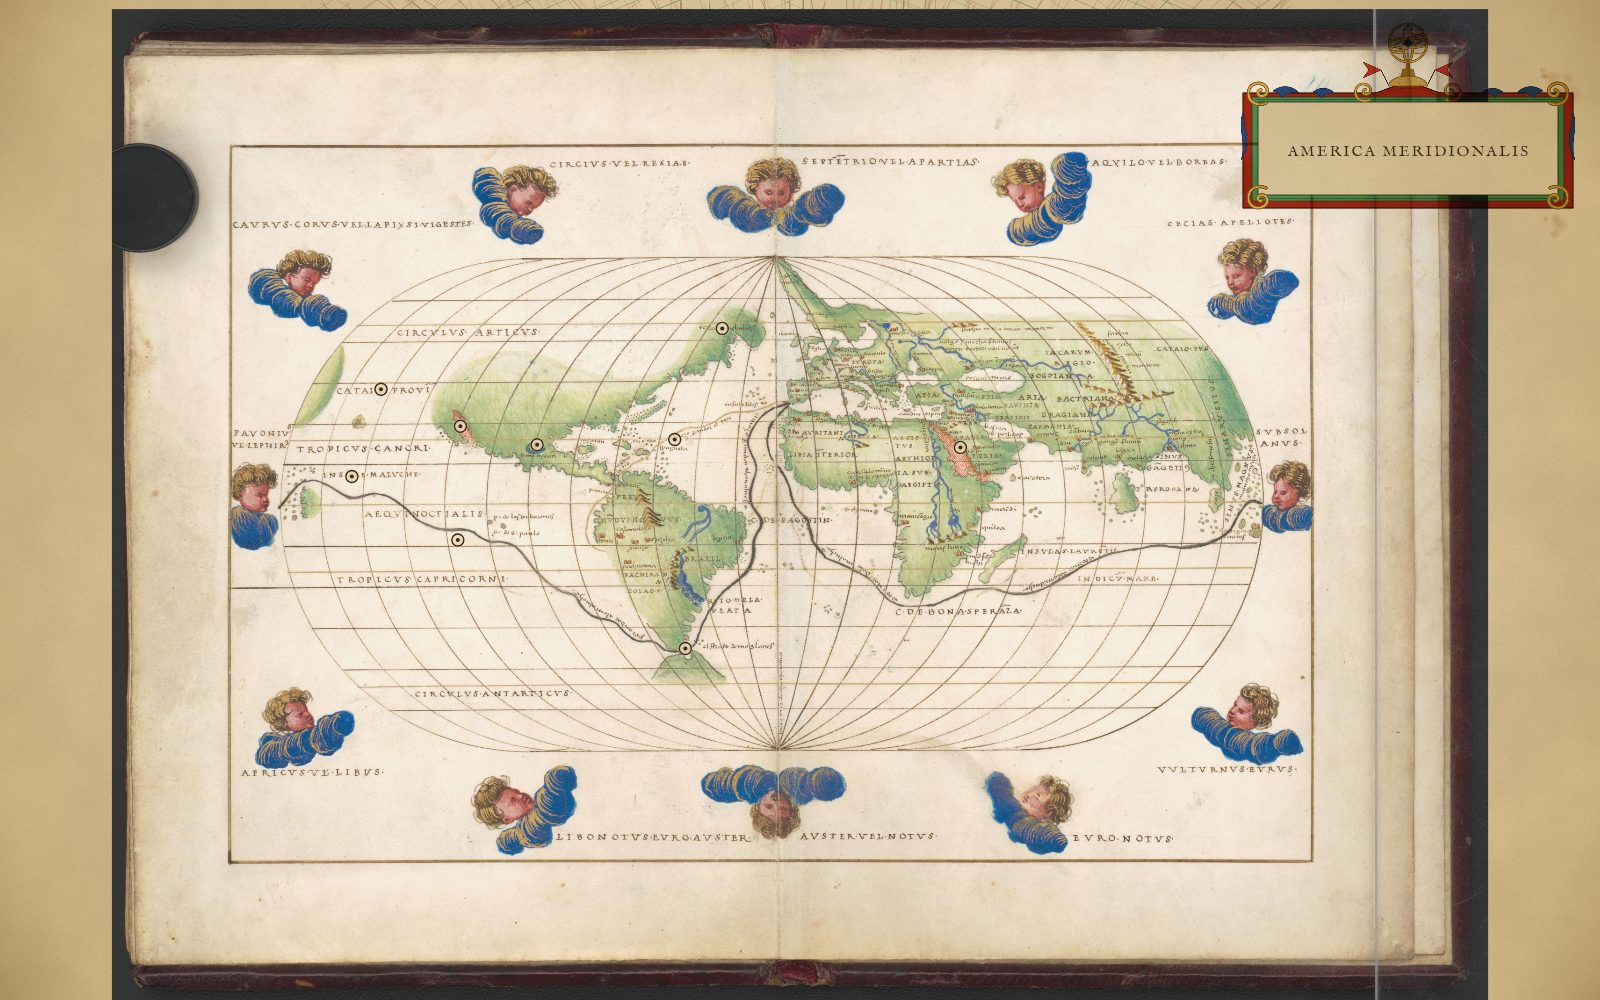
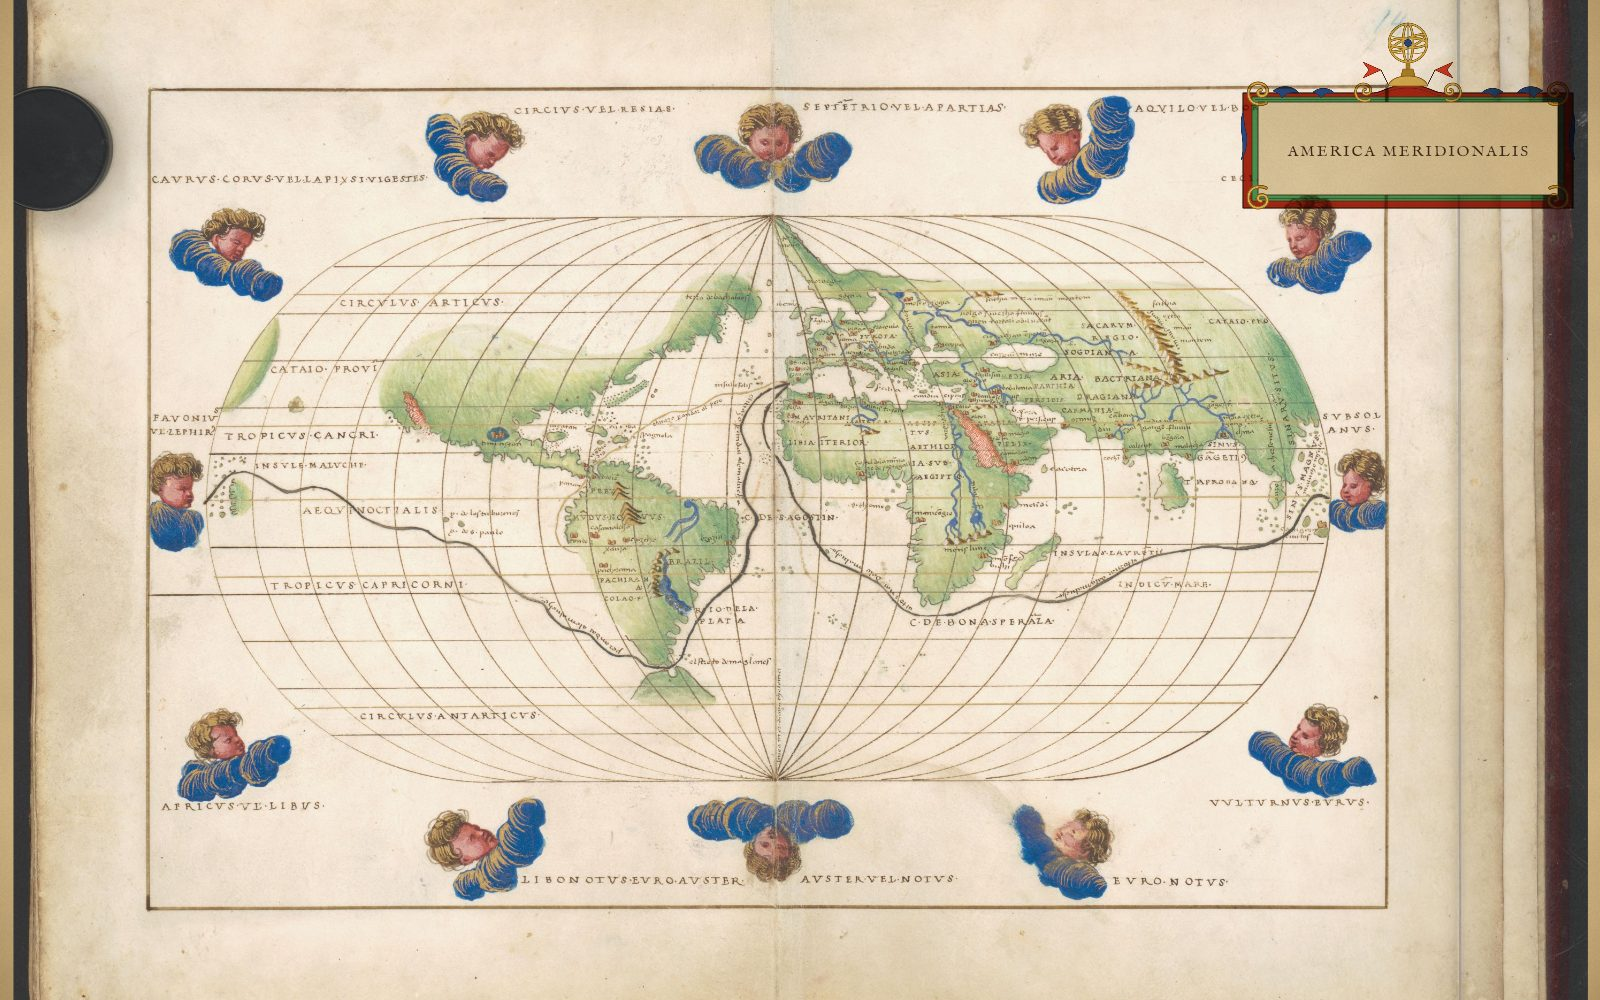
fix(overlay): notes drawn nowhere; a click on the sheet opens them (#270)
The ringed dots are gone. Over a noted figure the cursor turns to a
pointer, and a tap on the sheet that does not move it opens the note:
before, every press on the sheet began a drag and no tap reached the
tiles, and dropping the sheet re-rendered, which hid any tile.

diff --git a/public/page.js b/public/page.js
@@ -975,6 +975,7 @@ function sheetHit([x, y]) {
   if (near(geo.corners[2])) return { kind: 'size', ...geo };
   return onSheet(geo.o, geo.proj, geo.o.sheet, x, y) ? { kind: 'move', ...geo } : null;
 }
+let sheetTap = null; // where a press on the sheet began, until it moves far enough to be a drag: a tap there opens a note
 let held = null; // { kind, o, proj, start, sheet (as taken), centre } while the sheet is held
 let sheetFrameId = 0;
 function holdSheet(hit, p) {
@@ -1068,7 +1069,7 @@ canvas.addEventListener('pointerdown', (e) => {
   cancelAnimationFrame(flight); flightTo = null; // a touch takes over from a flight
   if (!pointers.size && e.isPrimary && !held) {
     const p = toCanvas(e.clientX, e.clientY), hit = sheetHit(p);
-    if (hit) { holdSheet(hit, p); canvas.setPointerCapture(e.pointerId); canvas.style.cursor = 'grabbing'; return; }
+    if (hit) { hideTile(); holdSheet(hit, p); sheetTap = p; canvas.setPointerCapture(e.pointerId); canvas.style.cursor = 'grabbing'; return; }
   }
   if (!pointers.size && e.isPrimary && (carried = cardAt(toCanvas(e.clientX, e.clientY)))) {
     carried.corner = style[carried.key];
@@ -1083,9 +1084,9 @@ canvas.addEventListener('pointerdown', (e) => {
   clearTimeout(settle);
 });
 canvas.addEventListener('pointermove', (e) => {
-  if (held) { dragSheet(toCanvas(e.clientX, e.clientY)); return; }
+  if (held) { const p = toCanvas(e.clientX, e.clientY); if (sheetTap && Math.hypot(p[0] - sheetTap[0], p[1] - sheetTap[1]) > cssPx(TAP_SLOP)) sheetTap = null; if (!sheetTap) dragSheet(p); return; }
   if (carried) { carried.corner = cornerAt(toCanvas(e.clientX, e.clientY)); showSnap(carried.corner, carried.w, carried.h); return; }
-  if (!pointers.size) { const p = toCanvas(e.clientX, e.clientY); canvas.style.cursor = cardAt(p) ? 'grab' : { move: 'grab', turn: 'crosshair', size: 'nwse-resize' }[sheetHit(p)?.kind] ?? ''; return; }
+  if (!pointers.size) { const p = toCanvas(e.clientX, e.clientY); canvas.style.cursor = cardAt(p) ? 'grab' : markAt(p) ? 'pointer' : { move: 'grab', turn: 'crosshair', size: 'nwse-resize' }[sheetHit(p)?.kind] ?? ''; return; }
   if (!pointers.has(e.pointerId)) return;
   const p = toCanvas(e.clientX, e.clientY);
   if (tap && Math.hypot(p[0] - tap[0], p[1] - tap[1]) > cssPx(TAP_SLOP)) tap = null;
@@ -1101,7 +1102,7 @@ canvas.addEventListener('pointermove', (e) => {
   }
 });
 const lift = (e) => {
-  if (held) { canvas.style.cursor = ''; dropSheet(); return; }
+  if (held) { const at = sheetTap; sheetTap = null; canvas.style.cursor = ''; if (at) { held = null; if (e.type === 'pointerup') showTileAt(at); } else dropSheet(); return; } // a tap moved nothing: no render, which would hide the tile
   if (carried) { // dropped: the corner is kept, the sheet placed again
     const { key, corner } = carried;
     carried = null; snap.style.display = 'none';
@@ -1170,11 +1171,16 @@ function sightTiles() {
     .filter(([name]) => SIGHT_TILES[name]).map(([name, v]) => { const { at, ...tile } = SIGHT_TILES[name]; return { lon: at?.[0] ?? v.lon, lat: at?.[1] ?? v.lat, tile: { title: name, ...tile } }; });
   return sightList;
 }
-function showTileAt([x, y]) {
+// the mark nearest [x, y] within reach: a voyage's event, a sight, or a note on a laid chart (drawn nowhere)
+function markAt([x, y]) {
   const proj = viewProjection(placed), rect = { x0: 0, y0: 0, x1: W, y1: H };
   const marks = [...(ground?.voyages ?? []).flatMap((v) => voyageMarks(v.voyage, proj, rect)), ...(placed.zoom >= POI_ZOOM ? sightMarks(sightTiles(), proj, rect) : []), ...noteMarks(ground?.overlay, proj, rect)];
   let best = null, bestD = Infinity;
   for (const m of marks) { const d = Math.hypot(m.x - x, m.y - y); if (d <= Math.max(cssPx(TAP_REACH), m.h / 2) && d < bestD) { best = m; bestD = d; } }
+  return best;
+}
+function showTileAt(at) {
+  const best = markAt(at);
   if (!best) return;
   fillTile(best.tile);
   // beside the mark, in client px: below and to its right, flipped inside the window where that would run off it

diff --git a/docs/overlay/README.md b/docs/overlay/README.md
@@ -168,15 +168,11 @@ the build's `CHARTS`.
 
 `npm run render -- --view <lon,lat,zoom> --overlay <id> --out <file>`, at each sheet's own frame.
 
-![Aguiar's chart laid level over the Mediterranean, its notes' marks on it](aguiar-sheet.jpg)
+![Aguiar's chart laid level over the Mediterranean](aguiar-sheet.jpg)
 
-![Agnese's oval world laid over the whole map, its notes' marks on Magellan's track](agnese-world-sheet.jpg)
+![Agnese's oval world laid over the whole map](agnese-world-sheet.jpg)
 
-![Dourado's North Atlantic laid over it, its notes' marks on the arms, Iceland and the Azores](dourado-atlantic-sheet.jpg)
+![Dourado's North Atlantic laid over it](dourado-atlantic-sheet.jpg)
 
-The notes' marks ride on the sheet where it lies, dragged, turned or resized, and are drawn over it (before,
-they were drawn under the opaque sheet and placed by the pieces' fits). Juan de la Cosa now has notes too:
-
-| before: the sheet at its parallels, no marks | after: its seven notes on the figures |
-|---|---|
-| ![before](de-la-cosa-sheet.jpg) | ![after](de-la-cosa-notes.jpg) |
+Nothing marks a note on the scan. Over a noted figure the cursor turns to a pointer, and a click opens its
+tile. The notes ride on the sheet where it lies, dragged, turned or resized. Juan de la Cosa has notes too.
